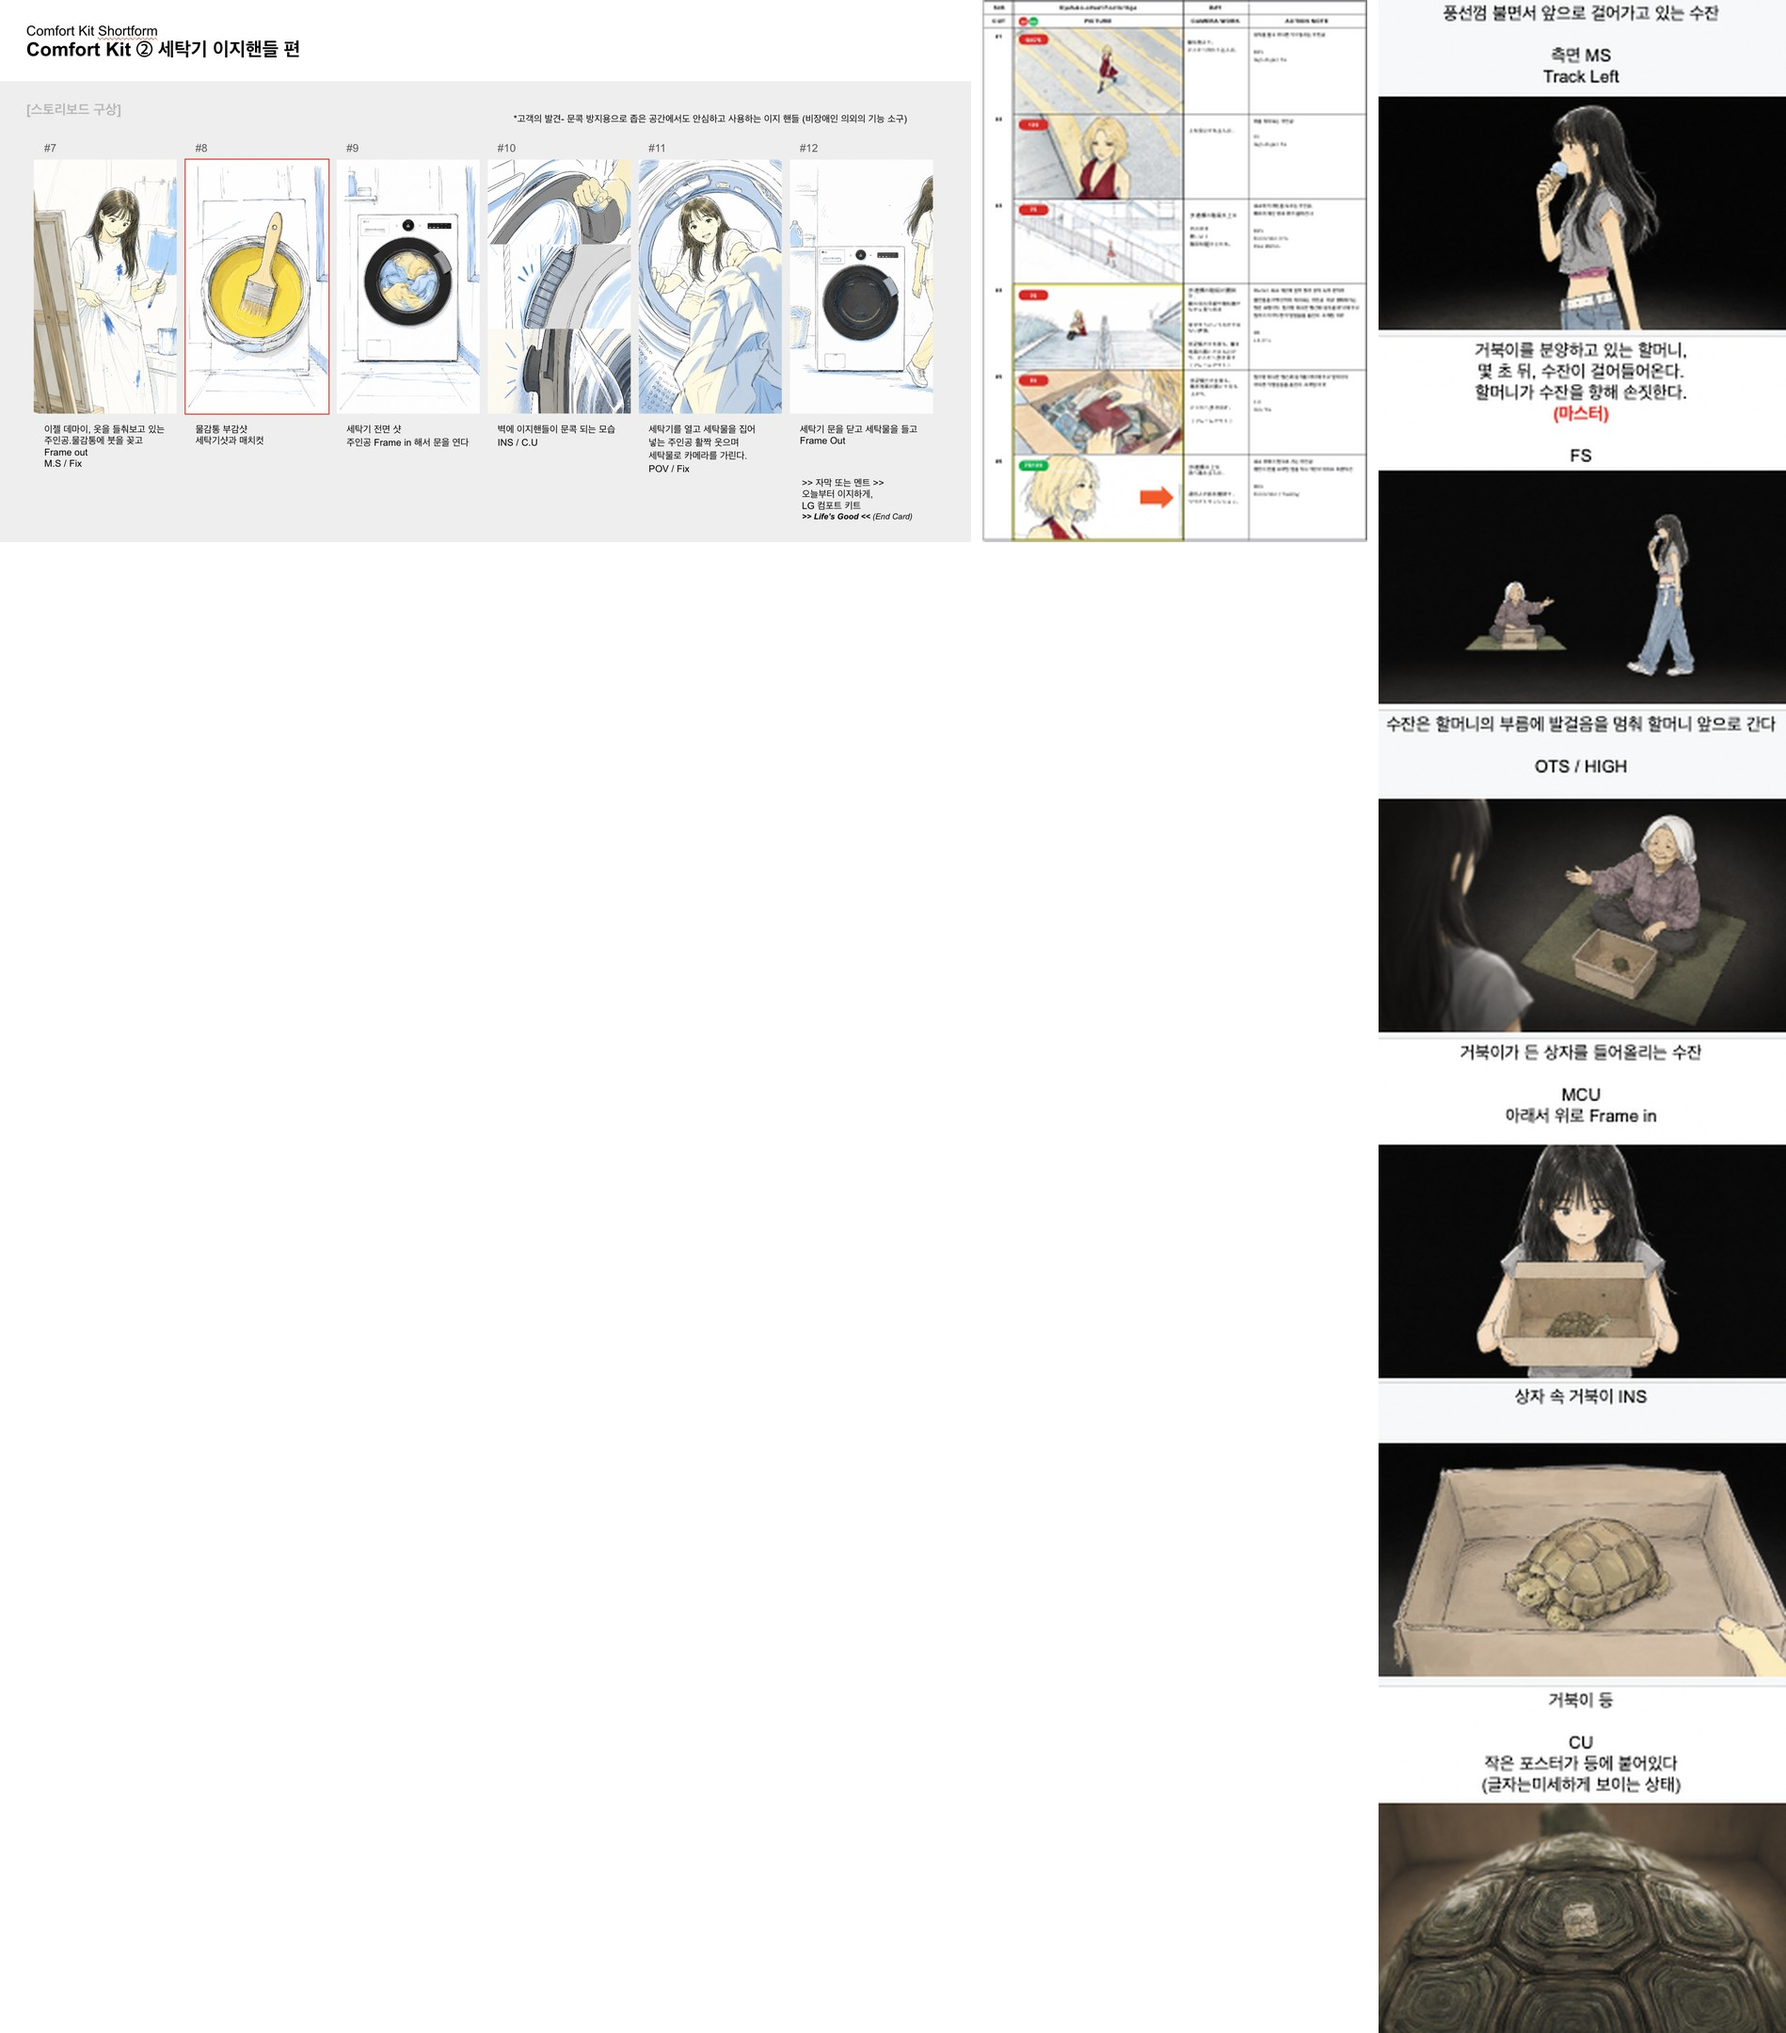
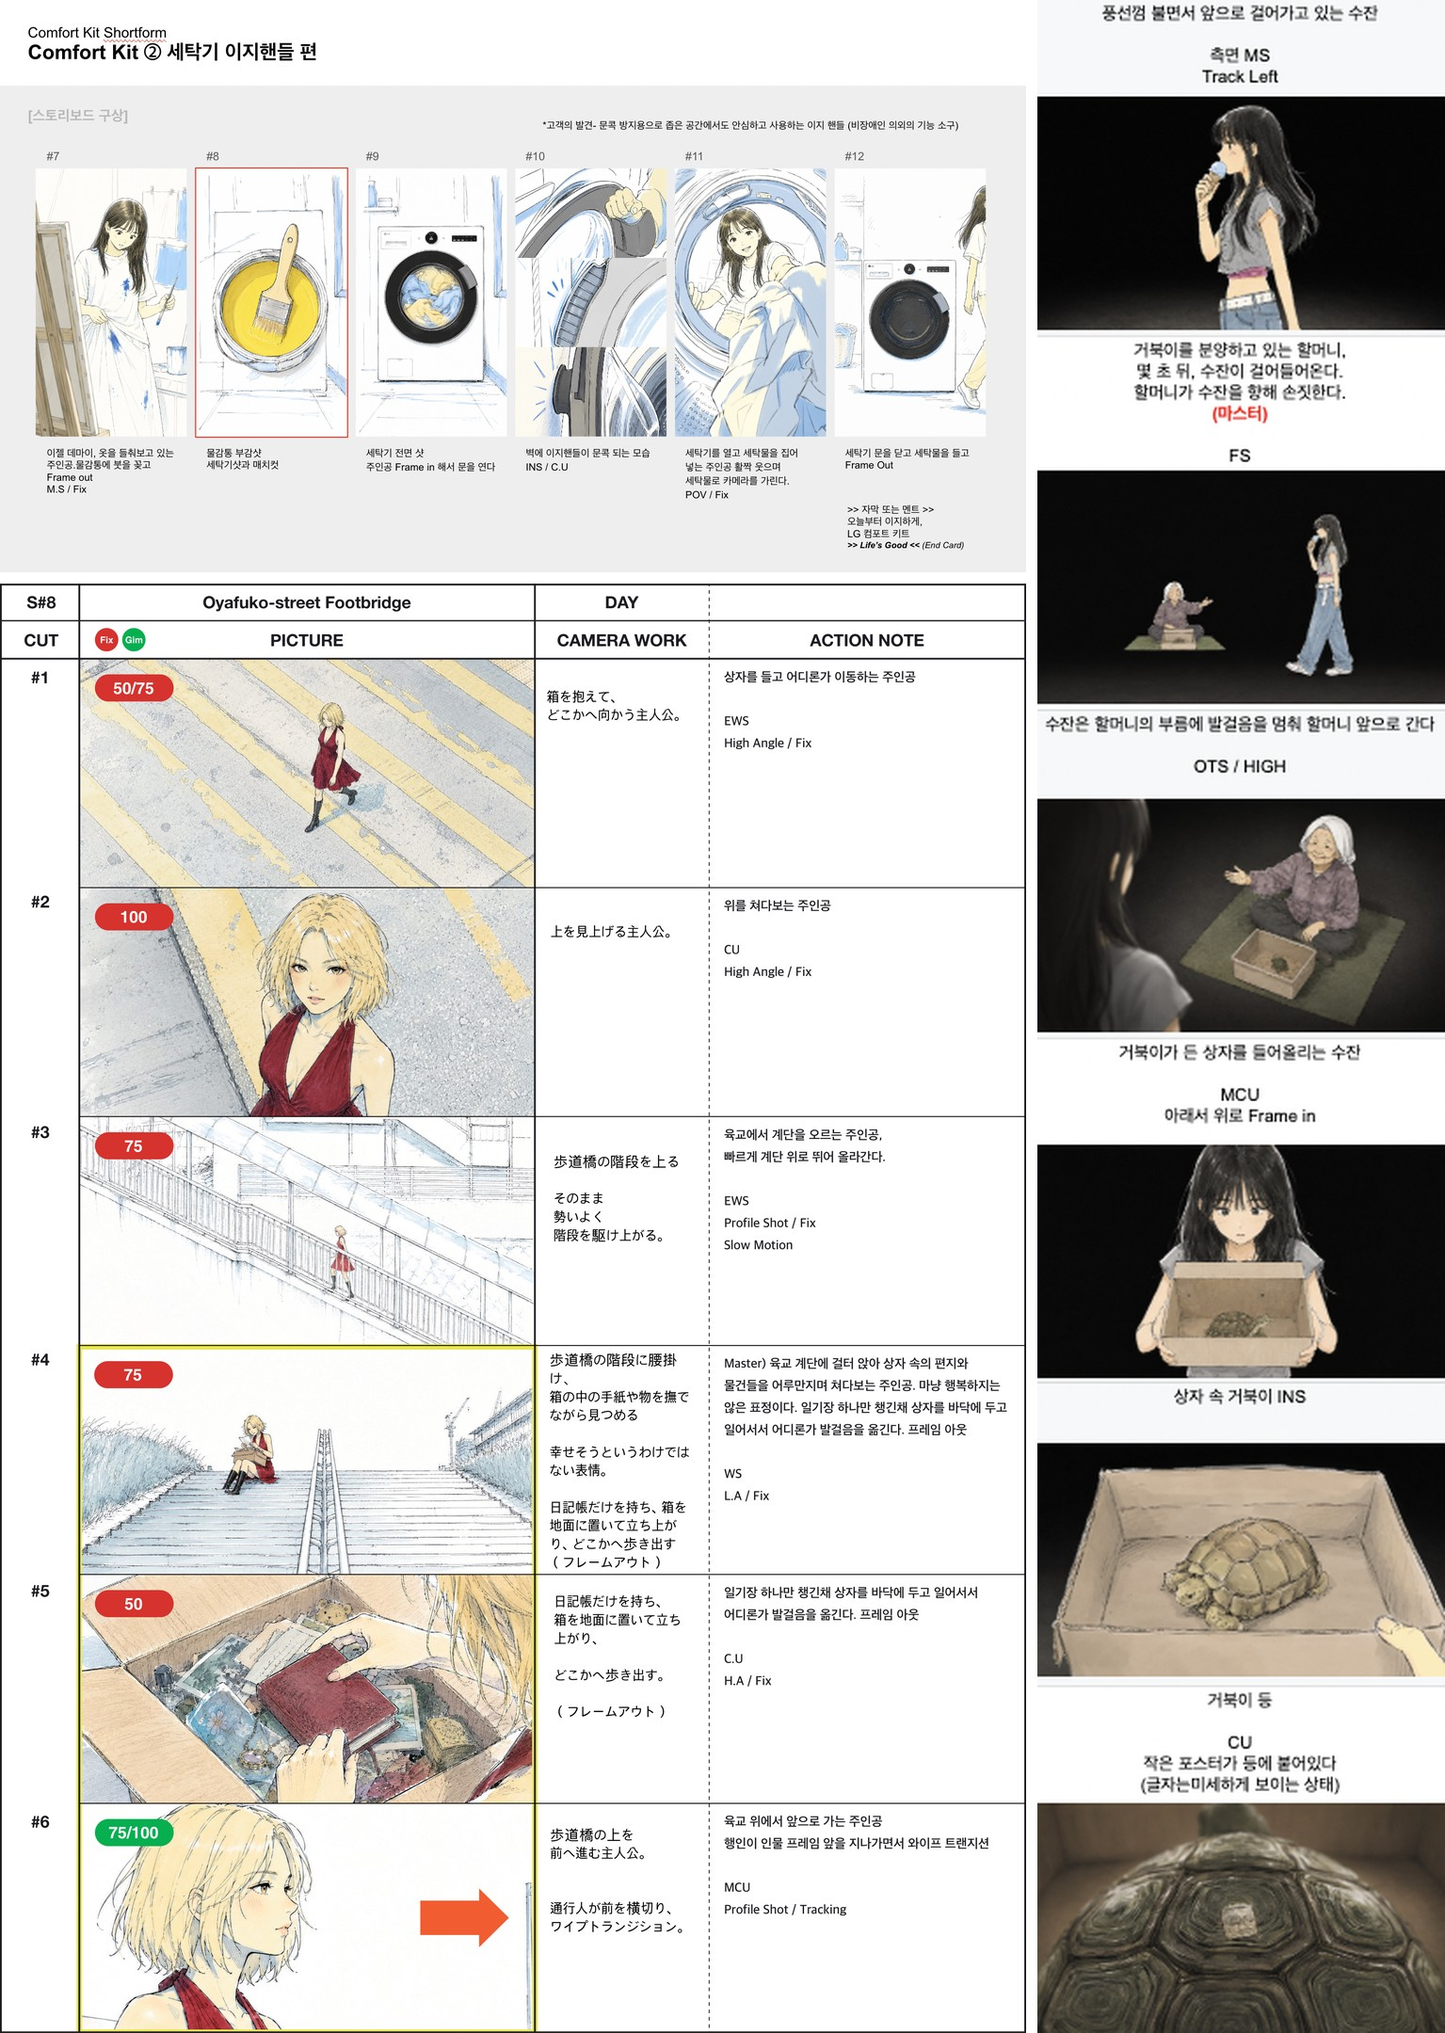
포트폴리오 PDF 표지: 하루키 콘티 원본으로 교체, 왼쪽 아래 문구 크기 키움
Claude-Session: https://claude.ai/code/session_01SWgDHbVtGemtDHXrLTzyL1

diff --git a/index.html b/index.html
@@ -302,7 +302,7 @@ dialog::backdrop{background:rgba(0,0,0,.8)}
 .w-cov{position:absolute;right:0;top:0;height:100%;display:flex;gap:1mm}
 .w-cov img{display:block;height:100%;width:auto}
 .w-base{position:absolute;left:8mm;bottom:8mm}
-.w-base p{margin:0 0 2mm;font-size:8.5pt}
+.w-base p{margin:0 0 2.5mm;font-size:11pt}
 .w-base .yr{font-size:42pt;font-weight:500;letter-spacing:-.04em;line-height:1;font-variant-numeric:tabular-nums}
 /* 소개: 왼쪽 아래 사진 1장 · 가운데 위 사진 2장 · 오른쪽 정렬 글 */
 .w-ab-l{position:absolute;left:8mm;bottom:13mm;width:52mm}
